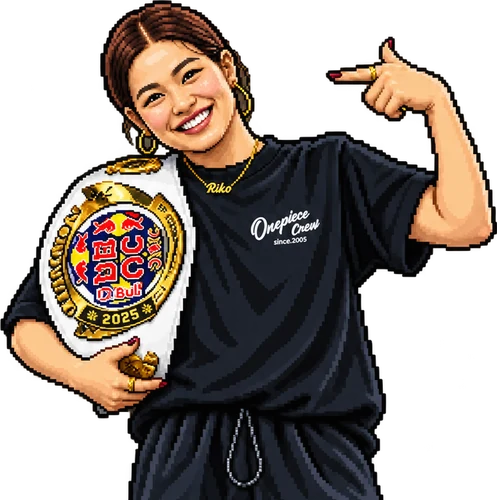
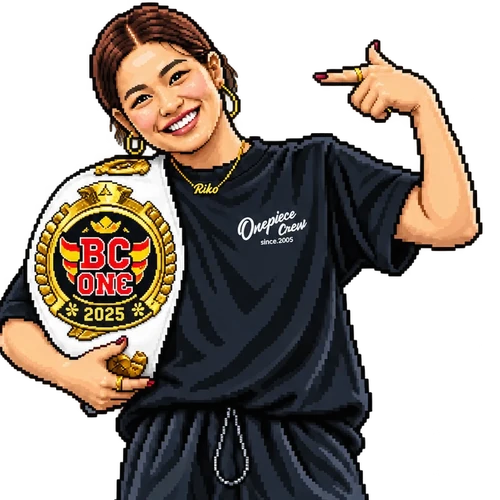
Red Bull dungeon: new Riko picture

diff --git a/js/dungeon.js b/js/dungeon.js
@@ -73,7 +73,7 @@ window.Dungeon = (() => {
   };
   const isOpen = id => { const c = cfg[id]; if (!c) return false; const now = Date.now(); return !!c.enabled || (!!c.open_from && now >= Date.parse(c.open_from) && (!c.open_until || now < Date.parse(c.open_until))); };
   const canEnter = id => isOpen(id) || Backend.isAdmin;
-  const img = (id, year, slug) => `assets/dungeons/${id}/${year}/${slug}.webp?v=2`;
+  const img = (id, year, slug) => `assets/dungeons/${id}/${year}/${slug}.webp?v=3`;
   const regionName = r => (I18N.lang === 'zh' ? r.zh : r.en);
   const egg = async (id, k) => {
     if (!logged()) return;
